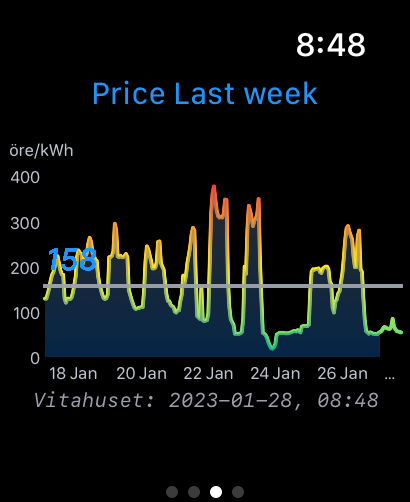
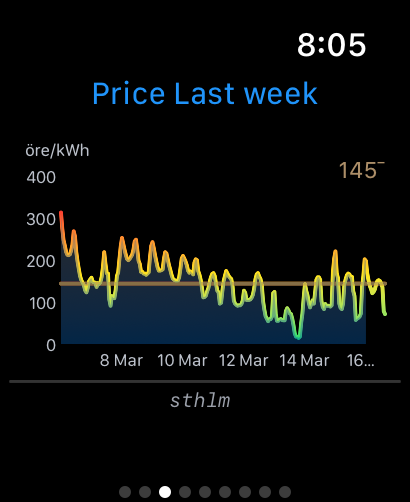
mo

diff --git a/wibber/index.html b/wibber/index.html
@@ -58,10 +58,14 @@
 	</tr>
 	<tr>
 		<td>
-			7. Om du nu har klickat p&aring; den Usern som du skapade s&aring; skapas 3 nya Tabbar. F&ouml;rsta Tabben inneh&aring;ller:<br>
+			7. Om du nu har klickat p&aring; den Usern som du skapade s&aring; skapas nya Tabbar. F&ouml;rsta Tabben inneh&aring;ller:<br>
 			<img src="images/wibber+/current.png" width="200"><br>
-			Denna vy visar nuvarande spotpris (inkl till&auml;gg, skatt och moms). F&auml;rgen &auml;r gr&ouml;n om niv&aring;n p&aring; priset &auml;r "VERY_CHEAP" eller "CHEAP", Bl&aring; om priset &auml;r "NORMAL" och r&ouml;d om Priset &auml;r "EXPENSIVE" eller "VERY_EXPENSIVE". Definitionerna av niv&aring;erna kan ses h&auml;r <a href="https://developer.tibber.com/docs/reference#pricelevel">link</a>. Under linjen visas namnet p&aring; huset/lgh som du angivit i hos Tibber och tiden n&auml;r datan sist blev refreshad.
+			Denna vy visar nuvarande spotpris (inkl till&auml;gg, skatt och moms). F&auml;rgen &auml;r gr&ouml;n om niv&aring;n p&aring; priset &auml;r "VERY_CHEAP" eller "CHEAP", Bl&aring; om priset &auml;r "NORMAL" och r&ouml;d om Priset &auml;r "EXPENSIVE" eller "VERY_EXPENSIVE". Definitionerna av niv&aring;erna kan ses h&auml;r <a href="https://developer.tibber.com/docs/reference#pricelevel">link</a>. Under linjen visas namnet p&aring; huset/lgh som du angivit i hos Tibber och delta tiden n&auml;r tills priset kommer vara som l&auml;gst.<br><br>
+            Om du nu vrider 1 steg på sidosnurrknappen så tempen (data från SMHI) på platsen där bostaden är. Två vridningar ger prognos.
 			<br>
+            <img src="images/wibber+/clock_waether1.png" width="200">
+                <img src="images/wibber+/clock_waether2.png" width="200"><br>
+
 			<br>
 			<br>
 			
@@ -69,9 +73,9 @@
 	</tr>
 	<tr>
 		<td>
-			8. Andra Tabben inneh&aring;ller:<br>
+			8. Pris Tabben inneh&aring;ller:<br>
 			<img src="images/chart1.png" width="200"> &nbsp; <img src="images/chart1_swipe.png" width="200"> &nbsp; <img src="images/chart2.png" width="200"> &nbsp; <img src="images/chart3.png" width="200"> &nbsp; <img src="images/chart4.png" width="200"><br>
-			Denna chart visar priset p&aring; elen p&aring; y axeln och tid p&aring; x axeln. Medelpriset anges med bl&aring; text och en horisontell linje. Skuggning under grafen g&aring;r fram till nuvarande tid. Om man svajpar sakta &ouml;ver grafen s&aring; visas priset ist&auml;llet f&ouml;r titeln. Om man klickar p&aring; grafen s&aring; visas grafen f&ouml;r vecka/m&aring;nad/&aring;r ist&auml;llet.
+			Denna chart visar priset p&aring; elen p&aring; y axeln och tid p&aring; x axeln. Medelpriset anges med brun text och en horisontell linje. Skuggning under grafen g&aring;r fram till nuvarande tid. Om man svajpar sakta &ouml;ver grafen s&aring; visas priset ist&auml;llet f&ouml;r titeln. Om man använder snurrknappen s&aring; visas grafen f&ouml;r vecka/m&aring;nad/&aring;r ist&auml;llet.
 			<br>
 			<br>
 			<br>
